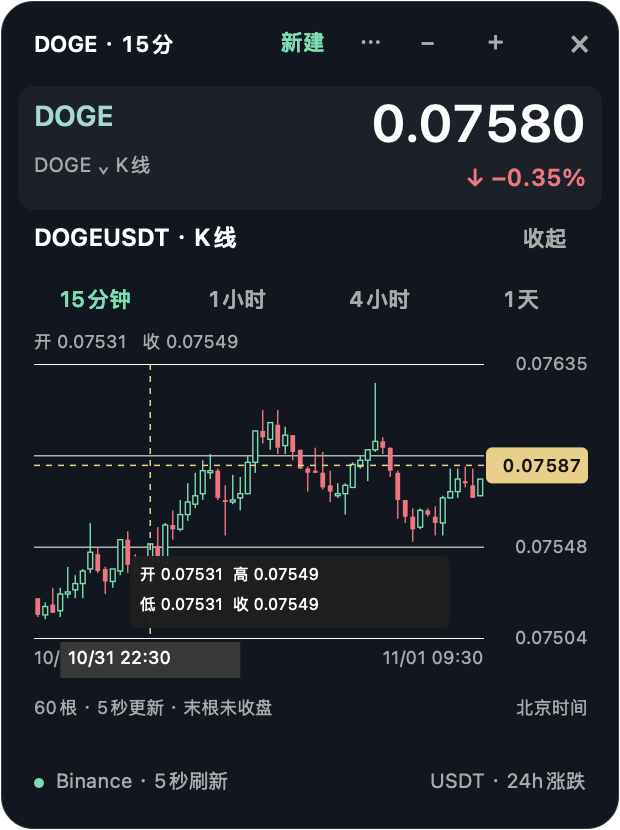
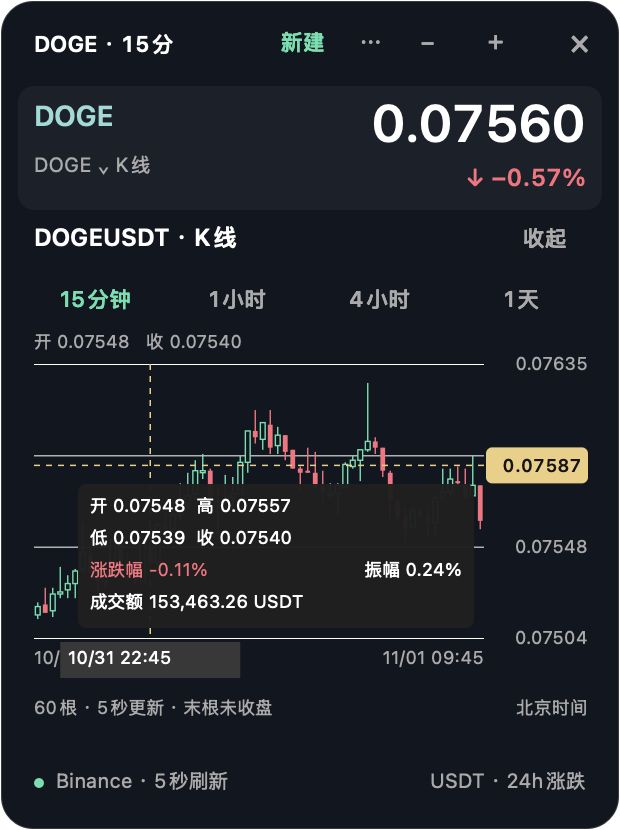
Fix native drag-end snapping and add candle hover metrics

diff --git a/source/main.m b/source/main.m
@@ -37,7 +37,8 @@
 @property NSURLSession *streamSession;
 @property NSURLSessionWebSocketTask *socket;
 @property NSURLSessionDataTask *pollTask;
-@property NSTimer *timer;
+@property NSTimer *timer, *dragEndTimer;
+@property double lastDragMovement;
 @property double lastWS, lastPoll, lastConnect, started, retryAt, delay, lastRecovery;
 @property NSInteger generation, pollGeneration;
 @property NSUInteger apiIndex, streamIndex, routeIndex;
@@ -105,6 +106,9 @@
 -(void)replaceSymbol:(NSString *)symbol digits:(NSInteger)digits;
 -(void)arrangeWindows:(id)sender;
 -(void)snapToEdges;
+-(void)beginWindowDrag;
+-(BOOL)leftMouseIsDown;
+-(void)checkWindowDragEnd;
 -(void)togglePinned:(id)sender;
 -(void)toggleSnap:(id)sender;
 -(void)setOpacityFromMenu:(NSMenuItem *)sender;
@@ -163,6 +167,18 @@ static void ChartRange(NSArray *rows, double *low, double *high) {
 }
 static NSUInteger HoverIndex(NSUInteger count, double fraction) { return count?MIN(count-1,(NSUInteger)floor(MAX(0,MIN(1,fraction))*count)):0; }
 static double HoverPrice(double low, double high, double fraction) { return high-(high-low)*MAX(0,MIN(1,fraction)); }
+// Rates are relative to this candle's open, not the rolling 24-hour ticker.
+static double CandleChange(NSArray *row) { return ([row[4] doubleValue]/[row[1] doubleValue]-1)*100; }
+static double CandleAmplitude(NSArray *row) { return ([row[2] doubleValue]-[row[3] doubleValue])/[row[1] doubleValue]*100; }
+static NSString *CandleTurnover(NSArray *row) {
+    // Binance klines index 7 is quote-asset volume (USDT for these markets).
+    if(row.count<8 || ![row[7] isKindOfClass:NSString.class]) return @"—";
+    NSScanner *scanner=[NSScanner scannerWithString:row[7]]; double amount;
+    if(![scanner scanDouble:&amount] || !scanner.atEnd || !isfinite(amount) || amount<0) return @"—";
+    NSNumberFormatter *format=[NSNumberFormatter new]; format.locale=[[NSLocale alloc] initWithLocaleIdentifier:@"en_US_POSIX"];
+    format.numberStyle=NSNumberFormatterDecimalStyle; format.usesGroupingSeparator=YES; format.groupingSize=3; format.minimumFractionDigits=2; format.maximumFractionDigits=2;
+    return [[format stringFromNumber:@(amount)] stringByAppendingString:@" USDT"];
+}
 @implementation PanelView
 -(BOOL)isFlipped { return YES; }
 // Keep the visible resize target eight screen points wide at every zoom level.
@@ -253,7 +269,7 @@ static double HoverPrice(double low, double high, double fraction) { return high
 }
 -(void)mouseDown:(NSEvent *)event {
     NSUInteger edges=[self resizeEdgesAt:[self convertPoint:event.locationInWindow fromView:nil]];
-    if(!edges) { [self.window performWindowDragWithEvent:event]; [self.owner snapToEdges]; return; }
+    if(!edges) { [self.owner beginWindowDrag]; [self.window performWindowDragWithEvent:event]; return; }
     NSRect initial=self.window.frame;
     NSPoint start=[self.window convertPointToScreen:event.locationInWindow];
     NSCursor *cursor=[self cursorForEdges:edges]; [cursor push];
@@ -423,7 +439,7 @@ static double HoverPrice(double low, double high, double fraction) { return high
     if(self.picker.visible && !self.picker.screen) [self.picker center];
 }
 -(void)windowDidResize:(NSNotification *)n { if(!self.windowID) [NSUserDefaults.standardUserDefaults setDouble:self.panel.frame.size.width/310 forKey:@"MiniScale"]; [self saveSingleWindows]; }
--(void)windowDidMove:(NSNotification *)n { [self saveSingleWindows]; }
+-(void)windowDidMove:(NSNotification *)n { if(self.dragEndTimer) self.lastDragMovement=Now(); [self saveSingleWindows]; }
 -(void)zoom:(NSButton *)sender { [self layoutPanel:self.panel.frame.size.width/310+sender.tag*.1]; }
 -(double)baseHeight {
     double height=80+75*self.charts.count;
@@ -511,18 +527,22 @@ static double HoverPrice(double low, double high, double fraction) { return high
         [cross moveToPoint:NSMakePoint(x,299)]; [cross lineToPoint:NSMakePoint(x,436)]; [cross stroke];
         NSString *price=[NSString stringWithFormat:@"%.*f",(int)[self digitsForSymbol:chart.symbol],HoverPrice(lo,hi,chart.hoverFraction.y)];
         double width=MAX(51,[price sizeWithAttributes:@{NSFontAttributeName:[NSFont monospacedDigitSystemFontOfSize:9 weight:NSFontWeightSemibold]}].width+8);
-        [ink setFill]; [[NSBezierPath bezierPathWithRoundedRect:NSMakeRect(294-width,yy-9,width,18) xRadius:3 yRadius:3] fill];
-        Label(price,NSMakeRect(297-width,yy-6,width-6,14),9,[NSColor colorWithWhite:.08 alpha:1],YES,YES);
         f.dateFormat=@"MM/dd HH:mm";
         NSString *time=[f stringFromDate:[NSDate dateWithTimeIntervalSince1970:[last[0] doubleValue]/1000]];
         double left=MAX(17,MIN(x-45,152));
         [[NSColor colorWithWhite:.22 alpha:1] setFill]; NSRectFill(NSMakeRect(left,438,90,18));
         Label(time,NSMakeRect(left+4,440,82,15),9,NSColor.whiteColor,NO,NO);
-        double tipX=chart.hoverFraction.x>.5?22:65, tipY=chart.hoverFraction.y<.5?395:304;
-        [[NSColor colorWithWhite:.12 alpha:.96] setFill]; [[NSBezierPath bezierPathWithRoundedRect:NSMakeRect(tipX,tipY,160,36) xRadius:4 yRadius:4] fill];
+        double tipX=chart.hoverFraction.x>.5?22:39, tipY=chart.hoverFraction.y<.5?359:304;
+        [[NSColor colorWithWhite:.12 alpha:.97] setFill]; [[NSBezierPath bezierPathWithRoundedRect:NSMakeRect(tipX,tipY,198,72) xRadius:4 yRadius:4] fill];
         NSInteger digits=[self digitsForSymbol:chart.symbol];
-        Label([NSString stringWithFormat:@"开 %.*f  高 %.*f",(int)digits,[last[1] doubleValue],(int)digits,[last[2] doubleValue]],NSMakeRect(tipX+5,tipY+4,150,14),8,NSColor.whiteColor,NO,NO);
-        Label([NSString stringWithFormat:@"低 %.*f  收 %.*f",(int)digits,[last[3] doubleValue],(int)digits,[last[4] doubleValue]],NSMakeRect(tipX+5,tipY+19,150,14),8,NSColor.whiteColor,NO,NO);
+        Label([NSString stringWithFormat:@"开 %.*f  高 %.*f",(int)digits,[last[1] doubleValue],(int)digits,[last[2] doubleValue]],NSMakeRect(tipX+6,tipY+5,186,14),9,NSColor.whiteColor,NO,NO);
+        Label([NSString stringWithFormat:@"低 %.*f  收 %.*f",(int)digits,[last[3] doubleValue],(int)digits,[last[4] doubleValue]],NSMakeRect(tipX+6,tipY+21,186,14),9,NSColor.whiteColor,NO,NO);
+        double change=CandleChange(last); if(fabs(change)<.005) change=0;
+        Label([NSString stringWithFormat:@"涨跌幅 %+.2f%%",change],NSMakeRect(tipX+6,tipY+37,100,14),9,change>0?Up():(change<0?Down():NSColor.whiteColor),NO,NO);
+        Label([NSString stringWithFormat:@"振幅 %.2f%%",CandleAmplitude(last)],NSMakeRect(tipX+108,tipY+37,84,14),9,NSColor.whiteColor,NO,YES);
+        Label([@"成交额 " stringByAppendingString:CandleTurnover(last)],NSMakeRect(tipX+6,tipY+53,186,14),9,NSColor.whiteColor,NO,NO);
+        [ink setFill]; [[NSBezierPath bezierPathWithRoundedRect:NSMakeRect(294-width,yy-9,width,18) xRadius:3 yRadius:3] fill];
+        Label(price,NSMakeRect(297-width,yy-6,width-6,14),9,[NSColor colorWithWhite:.08 alpha:1],YES,YES);
     }
 }
 -(void)show:(id)sender { [self.panel orderFrontRegardless]; }

diff --git a/tests/windows.m b/tests/windows.m
@@ -17,6 +17,45 @@ static void Snapshot(NSView *view, NSString *path) {
     [view cacheDisplayInRect:view.bounds toBitmapImageRep:bitmap];
     Require([[bitmap representationUsingType:NSBitmapImageFileTypePNG properties:@{}] writeToFile:path atomically:YES],@"snapshot saved");
 }
+// Model the documented native drag handoff: returns immediately, consumes mouse-up.
+@interface DragProbePanel : NSPanel
+@property NSUInteger dragCalls;
+@end
+@implementation DragProbePanel
+-(void)performWindowDragWithEvent:(NSEvent *)event { self.dragCalls++; }
+@end
+@interface DragProbeController : Controller
+@property BOOL held;
+@end
+@implementation DragProbeController
+-(BOOL)leftMouseIsDown { return self.held; }
+-(void)saveSingleWindows {}
+@end
+static void CheckDragLifecycle(void) {
+    DragProbeController *c=[DragProbeController new];
+    ChartState *chart=[ChartState new]; chart.symbol=@"BTCUSDT"; chart.expanded=YES; c.charts=@[chart];
+    NSRect screen=NSScreen.mainScreen.visibleFrame;
+    DragProbePanel *panel=[[DragProbePanel alloc] initWithContentRect:NSMakeRect(NSMinX(screen)+20,NSMinY(screen)+20,310,415) styleMask:NSWindowStyleMaskBorderless backing:NSBackingStoreBuffered defer:NO];
+    panel.releasedWhenClosed=NO; panel.delegate=c; c.panel=panel;
+    c.view=[[PanelView alloc] initWithFrame:NSMakeRect(0,0,310,415)]; c.view.owner=c; panel.contentView=c.view;
+    [c.view setBoundsSize:NSMakeSize(310,415)]; [panel orderFront:nil];
+    NSEvent *down=[NSEvent mouseEventWithType:NSEventTypeLeftMouseDown location:NSMakePoint(100,395) modifierFlags:0 timestamp:0 windowNumber:panel.windowNumber context:nil eventNumber:1 clickCount:1 pressure:1];
+    c.held=YES; NSRect initial=panel.frame; [c.view mouseDown:down];
+    Require(panel.dragCalls==1 && c.dragEndTimer && NSEqualRects(initial,panel.frame),@"native drag returns immediately without prematurely snapping");
+    [panel setFrameOrigin:NSMakePoint(NSMaxX(screen)-panel.frame.size.width-20,NSMinY(screen)+20)];
+    Until(^BOOL { return NO; },.2);
+    Require(fabs(NSMaxX(panel.frame)-(NSMaxX(screen)-20))<.1 && c.dragEndTimer,@"holding the pointer leaves dragging free");
+    // No mouse-up is sent to the view. The native button-state watcher must finish it.
+    c.held=NO;
+    Require(Until(^BOOL { return c.dragEndTimer==nil; },1),@"release is detected even without a delivered mouse-up event");
+    Require(fabs(NSMaxX(panel.frame)-NSMaxX(screen))<.1 && fabs(NSMinY(panel.frame)-NSMinY(screen))<.1,@"final position snaps after native drag completes");
+    c.snapEnabled=NO; [panel setFrameOrigin:initial.origin]; [c.view mouseDown:down];
+    Require(!c.dragEndTimer && NSEqualRects(initial,panel.frame),@"disabled snapping leaves final position unchanged");
+    c.snapEnabled=YES; c.held=YES; [c beginWindowDrag]; [c stop];
+    Require(!c.dragEndTimer,@"closing a window cancels drag watching");
+    panel.delegate=nil; [panel close];
+    NSLog(@"PASS: native asynchronous drag lifecycle, held/released state, missing mouse-up, disabled snap and cleanup");
+}
 static void Dispose(Controller *root) {
     [root applicationWillTerminate:[NSNotification notificationWithName:NSApplicationWillTerminateNotification object:NSApp]];
     root.panel.delegate=nil; [root.panel close];
@@ -28,6 +67,7 @@ int main(void) { @autoreleasepool {
     Require([domain isEqual:@"local.bai.cryptopulsemini.window-tests"],@"tests must use isolated preferences");
     [NSUserDefaults.standardUserDefaults removePersistentDomainForName:domain];
     NSApplication *app=NSApplication.sharedApplication; [app finishLaunching];
+    CheckDragLifecycle();
     Controller *root=[Controller new]; [root applicationDidFinishLaunching:[NSNotification notificationWithName:NSApplicationDidFinishLaunchingNotification object:app]];
     NSString *out=NSProcessInfo.processInfo.environment[@"PULSE_TEST_OUTPUT"]?:@".build";
     [root applicationShouldHandleReopen:app hasVisibleWindows:YES];
@@ -68,6 +108,7 @@ int main(void) { @autoreleasepool {
     NSRect plot=[sol plotRectAtIndex:0];
     Require([sol.view updateHoverAt:NSMakePoint(NSMinX(plot)+plot.size.width*.25,NSMinY(plot)+plot.size.height*.37)],@"mouse hovering plot activates crosshair");
     Require(fabs(sol.charts.firstObject.hoverFraction.y-.37)<.0001,@"hover tracks pointer height after scaling");
+    Require(![CandleTurnover(sol.charts.firstObject.candles[HoverIndex(60,.25)]) isEqual:@"—"],@"live selected candle includes quote turnover");
     Snapshot(sol.view,[out stringByAppendingPathComponent:@"crosshair-doge.png"]);
     plot=[tiny plotRectAtIndex:0]; [tiny.view updateHoverAt:NSMakePoint(NSMinX(plot)+plot.size.width*.83,NSMinY(plot)+plot.size.height*.72)];
     Snapshot(tiny.view,[out stringByAppendingPathComponent:@"crosshair-shib.png"]);

diff --git a/source/window-actions.inc.m b/source/window-actions.inc.m
@@ -39,9 +39,26 @@ static NSArray<NSValue *> *TileCells(NSArray<NSNumber *> *heights, NSArray<NSNum
 -(void)togglePinned:(id)sender { self.pinned=!self.pinned; [self applyWindowAppearance]; [self saveSingleWindows]; }
 -(void)toggleSnap:(id)sender { self.snapEnabled=!self.snapEnabled; [self saveSingleWindows]; }
 -(void)setOpacityFromMenu:(NSMenuItem *)sender { self.opacity=MAX(.6,MIN(1,sender.tag/100.0)); [self applyWindowAppearance]; [self saveSingleWindows]; }
+-(BOOL)leftMouseIsDown { return (NSEvent.pressedMouseButtons & 1)!=0; }
+-(void)beginWindowDrag {
+    [self.dragEndTimer invalidate]; self.dragEndTimer=nil;
+    if(!self.snapEnabled || self.closed) return;
+    self.lastDragMovement=Now();
+    __weak Controller *weakSelf=self;
+    // Native window dragging returns immediately and may consume the mouse-up event.
+    // Common modes keep this check active while AppKit tracks the drag.
+    self.dragEndTimer=[NSTimer timerWithTimeInterval:.05 repeats:YES block:^(NSTimer *timer) { [weakSelf checkWindowDragEnd]; }];
+    [NSRunLoop.mainRunLoop addTimer:self.dragEndTimer forMode:NSRunLoopCommonModes];
+}
+-(void)checkWindowDragEnd {
+    if(!self.dragEndTimer) return;
+    if(!self.closed && self.snapEnabled && ([self leftMouseIsDown] || Now()-self.lastDragMovement<.1)) return;
+    [self.dragEndTimer invalidate]; self.dragEndTimer=nil;
+    if(!self.closed && self.snapEnabled) [self snapToEdges];
+}
 -(void)snapToEdges {
     if(!self.snapEnabled || self.closed) return;
-    NSRect frame=SnapFrame(self.panel.frame,(self.panel.screen?:NSScreen.mainScreen).visibleFrame,14);
+    NSRect frame=SnapFrame(self.panel.frame,(self.panel.screen?:NSScreen.mainScreen).visibleFrame,24);
     [self.panel setFrame:frame display:YES]; [self saveSingleWindows];
 }
 -(NSMenu *)windowOptions {
@@ -54,7 +71,7 @@ static NSArray<NSValue *> *TileCells(NSArray<NSNumber *> *heights, NSArray<NSNum
     NSMenuItem *pin=[[NSMenuItem alloc] initWithTitle:@"窗口置顶" action:@selector(togglePinned:) keyEquivalent:@""]; pin.target=self; pin.state=self.pinned?NSControlStateValueOn:NSControlStateValueOff; [menu addItem:pin];
     NSMenuItem *opacity=[[NSMenuItem alloc] initWithTitle:@"不透明度" action:nil keyEquivalent:@""]; opacity.submenu=[NSMenu new]; [menu addItem:opacity];
     for(NSNumber *value in @[@100,@90,@80,@70,@60]) { NSMenuItem *item=[[NSMenuItem alloc] initWithTitle:[NSString stringWithFormat:@"%@%%%@",value,value.intValue==100?@"（完全不透明）":@""] action:@selector(setOpacityFromMenu:) keyEquivalent:@""]; item.tag=value.integerValue; item.target=self; item.state=fabs(self.opacity*100-value.doubleValue)<.5?NSControlStateValueOn:NSControlStateValueOff; [opacity.submenu addItem:item]; }
-    NSMenuItem *snap=[[NSMenuItem alloc] initWithTitle:@"松手时贴边吸附" action:@selector(toggleSnap:) keyEquivalent:@""]; snap.target=self; snap.state=self.snapEnabled?NSControlStateValueOn:NSControlStateValueOff; [menu addItem:snap];
+    NSMenuItem *snap=[[NSMenuItem alloc] initWithTitle:@"拖到屏幕边缘自动贴齐" action:@selector(toggleSnap:) keyEquivalent:@""]; snap.target=self; snap.state=self.snapEnabled?NSControlStateValueOn:NSControlStateValueOff; [menu addItem:snap];
     return menu;
 }
 -(void)showWindowOptions:(id)sender {

diff --git a/tests/reconnect.m b/tests/reconnect.m
@@ -290,5 +290,16 @@ int main(void) { @autoreleasepool {
     double low,high; ChartRange(Candles(),&low,&high); Check(low<9 && high>12 && isfinite(low) && isfinite(high),@"crosshair uses same padded range as the candles");
     c=Fixture(); Check(NSEqualRects([c plotRectAtIndex:2],NSMakeRect(17,[c rowY:2]+139,225,137)),@"expanded charts map hover to each row's own plot");
     puts("PASS: same-window coin switch, stale callback isolation, appearance, snap, tiling and crosshair mapping");
+    NSArray *up=@[@0,@"100",@"120",@"90",@"110",@"999",@1,@"12345.67"];
+    NSArray *down=@[@0,@"100",@"110",@"80",@"90",@"999",@1,@"0"];
+    Check(fabs(CandleChange(up)-10)<.0001 && fabs(CandleChange(down)+10)<.0001,@"hover change is candle close vs open, with correct sign");
+    Check(fabs(CandleAmplitude(up)-30)<.0001 && fabs(CandleAmplitude(down)-30)<.0001,@"amplitude uses candle high-low divided by open");
+    Check([CandleTurnover(up) isEqual:@"12,345.67 USDT"] && [CandleTurnover(down) isEqual:@"0.00 USDT"],@"turnover uses quote asset volume, not base volume; zero is valid");
+    Check([CandleTurnover(Candles().firstObject) isEqual:@"—"],@"missing turnover does not invent zero");
+    for(id invalid in @[@"NaN",@"-1",@"12oops",@"inf",@12,NSNull.null]) {
+        NSMutableArray *row=[up mutableCopy]; row[7]=invalid;
+        Check([CandleTurnover(row) isEqual:@"—"],@"malformed turnover displays unavailable");
+    }
+    puts("PASS: selected-candle amplitude, signed change, USDT turnover and invalid/missing volume");
     return 0;
 } }

diff --git a/source/windows.inc.m b/source/windows.inc.m
@@ -90,6 +90,7 @@ static NSRect PlaceWindow(NSSize size, NSRect screen, NSArray<NSValue *> *occupi
 -(void)stop {
     self.closed=YES; self.generation++; self.pollGeneration++;
     [self.timer invalidate]; self.timer=nil;
+    [self.dragEndTimer invalidate]; self.dragEndTimer=nil;
     [NSWorkspace.sharedWorkspace.notificationCenter removeObserver:self];
     [NSNotificationCenter.defaultCenter removeObserver:self];
     [self.socket cancelWithCloseCode:NSURLSessionWebSocketCloseCodeGoingAway reason:nil]; self.socket=nil;

diff --git a/README.md b/README.md
@@ -17,19 +17,19 @@ macOS 桌面置顶 BTC / ETH / PENDLE 行情工具，使用 Binance 公开行情
 - 支持拖动、缩放、跨桌面置顶与 Dock 启动。
 - 图标采用用户选定的玄青金色交织结形，v1.7 提亮金色。
 
-## v1.10 窗口操作与十字线
+## v1.11 窗口操作与十字线
 
 点击窗口顶部「⋯」，或在窗口背景处右键：
 
 - **原窗口切币**：单币窗口选择「切换这个窗口的币种…」。验证成功后更新行情，保留位置、大小、周期、展开状态、置顶与透明度；输入错误不影响原行情。
 - **一键排列所有窗口**：按各自所在屏幕安排位置，必要时缩小以避免重叠。菜单栏和 Dock 右键菜单也有入口。
 - **独立置顶与透明度**：每个窗口分别设置置顶，以及 60%～100% 不透明度；重启后恢复。
-- **贴边吸附**：拖动或缩放松手时，距离屏幕可用区域边缘 14 点以内自动贴边。可以单独关闭并保存。
-- **K 线十字线**：鼠标移入蜡烛图，横线右侧显示指针高度对应的价格，竖线定位蜡烛，底部显示北京时间；悬浮框显示该根蜡烛的开、高、低、收。移出图表自动隐藏，支持缩放、小价格币种和主窗口多张图。
+- **贴边吸附**：拖动或缩放松手时，距离屏幕可用区域边缘 24 点以内自动贴边。在「⋯ → 拖到屏幕边缘自动贴齐」中可以单独关闭并保存。
+- **K 线十字线**：鼠标移入蜡烛图，横线右侧显示指针高度对应的价格，竖线定位蜡烛，底部显示北京时间；悬浮框显示该根蜡烛的开、高、低、收、涨跌幅、振幅和成交额（USDT）。涨跌幅为 `(收盘−开盘)/开盘×100%`，振幅为 `(最高−最低)/开盘×100%`；末根未收盘时数值随 K 线刷新。移出图表自动隐藏，支持缩放、小价格币种和主窗口多张图。
 
 ![K 线悬浮十字线与价格示例](docs/crosshair.png)
 
-窗口动作实现见 `source/window-actions.inc.m`。本轮验证与覆盖边界见 [v1.10 验收记录](QA-v1.10-2026-11-01.md)。
+窗口动作实现见 `source/window-actions.inc.m`。v1.11 修复了原生拖动尚未结束就尝试吸附的问题，改为检测鼠标释放和最终窗口位置后贴齐。验证记录见 [v1.11 验收记录](QA-v1.11-2026-11-01.md)，此前持续测试见 [v1.10 验收记录](QA-v1.10-2026-11-01.md)。
 
 ## 构建和启动
 

diff --git a/QA-v1.11-2026-11-01.md b/QA-v1.11-2026-11-01.md
@@ -1,0 +1,22 @@
+# Crypto Pulse Mini v1.11 验收
+
+## 问题和修复
+
+v1.10 在 `performWindowDragWithEvent:` 返回后立即吸附。根据 [Apple 文档](https://developer.apple.com/documentation/appkit/nswindow/performdrag%28with%3A%29?language=objc)，原生拖动立即返回，并且不保证向应用发送松开鼠标事件，因此这个调用位置不能代表拖动结束。上一轮仅直接调用吸附方法验证位置，漏测了拖动交接时机。
+
+现在保留原生拖动，通过只在拖动期间工作的定时检查确认左键释放，并等待窗口位置稳定后吸附；关闭窗口会取消检查。吸附距离改为24个屏幕点，菜单名改为“拖到屏幕边缘自动贴齐”。关闭吸附时不会改变拖动位置。
+
+## 新增指标口径
+
+- 当前指向蜡烛的涨跌幅：`(收盘−开盘)/开盘×100%`，带正负号和颜色。
+- 振幅：`(最高−最低)/开盘×100%`。
+- 成交额：Binance K线响应下标7的 quote asset volume。当前工具都是 USDT 交易对，因此显示 USDT；没有用币的数量乘收盘价估算。字段含义见 [Binance 行情接口](https://developers.binance.com/en/docs/catalog/core-trading-spot-trading/api/rest-api/market)。
+- 末根未收盘的数值会随K线刷新。缺失/非法金额显示“—”，真实0显示0.00 USDT。
+
+## 验证结果
+
+- 18组离线回归通过，新增上涨/下跌蜡烛计算、振幅、USDT成交额与非数字/负数/缺失字段检查。
+- 原生窗口中的拖动生命周期回归通过：模拟系统拖动立即返回且不投递松手事件，验证按住不吸附、松手使用最终位置、禁用不吸附和关闭清理。该测试未控制用户真实鼠标完成物理拖动。
+- 主窗口加三个单币窗口的真实行情与界面回归通过，切币、设置恢复、排列、12次窗口开关等旧用例通过。
+- 已检查DOGE和八位小数SHIB悬浮截图，开高低收和三项新指标完整显示，十字线价格标签保留。
+- v1.11构建和内置自检通过。网络连接逻辑未改动，本轮未重复上一版的十分钟持续测试。
